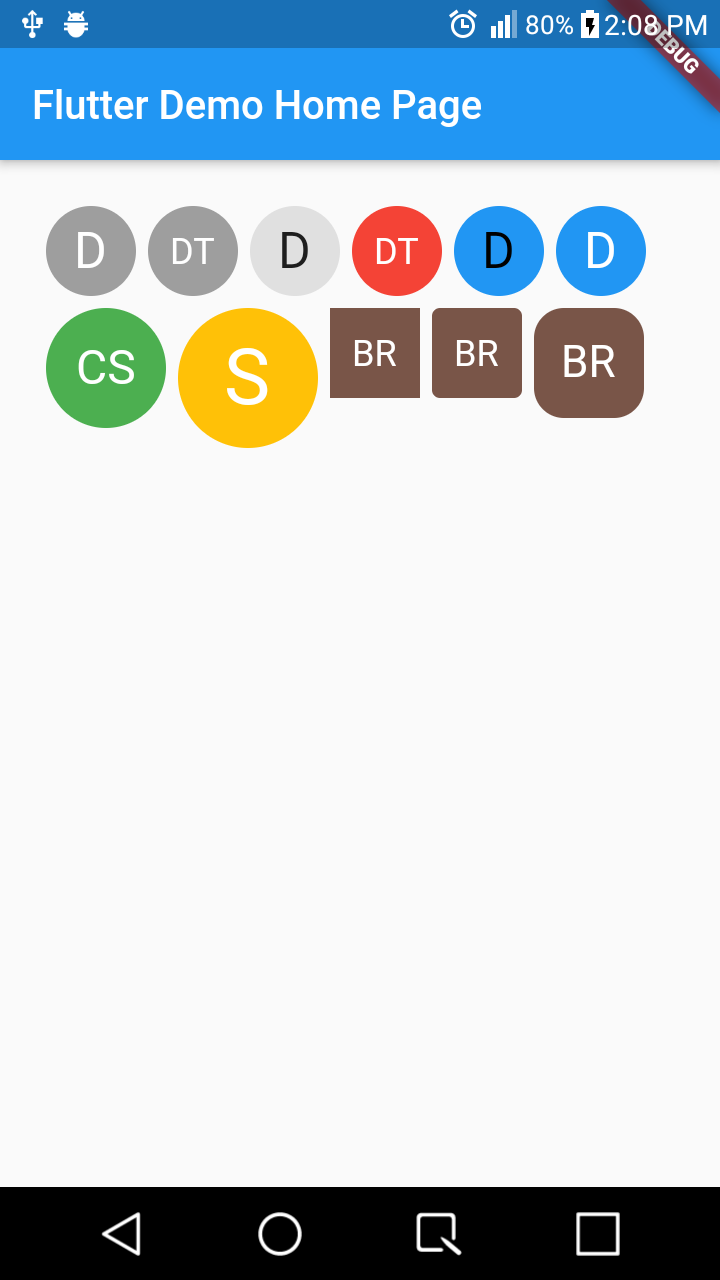
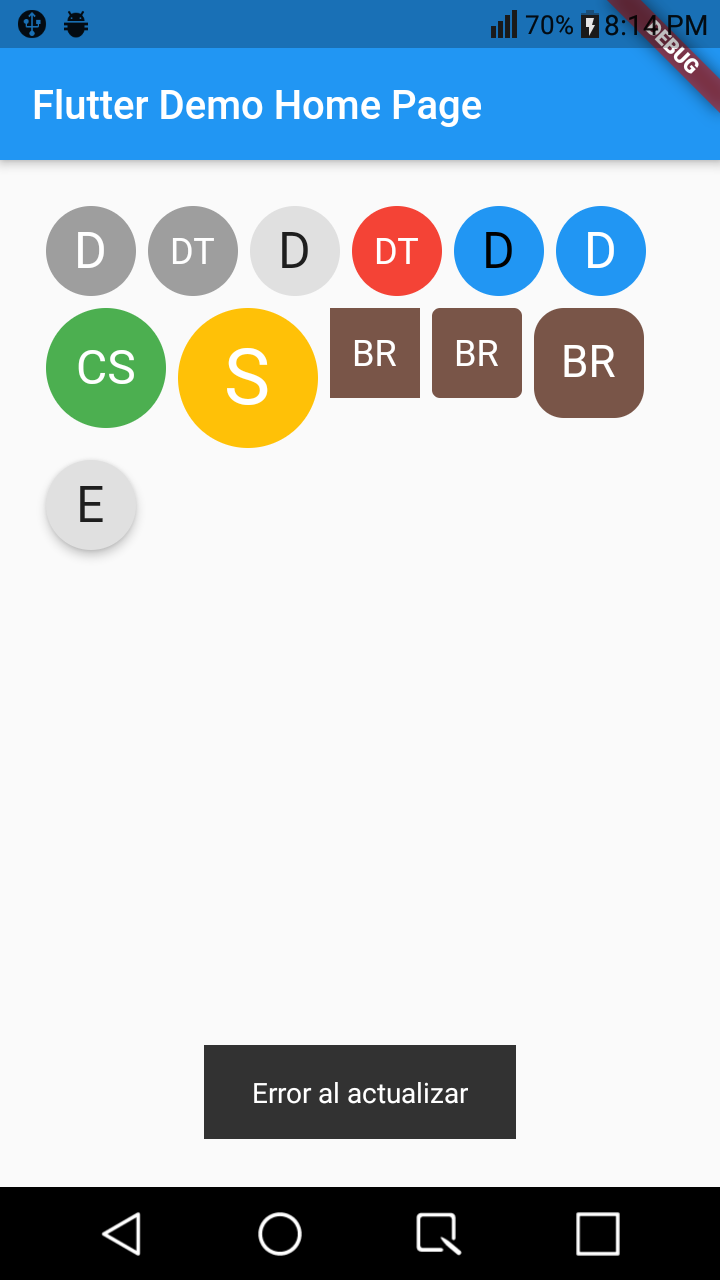
Updated

diff --git a/lib/src/initicon.dart b/lib/src/initicon.dart
@@ -6,7 +6,7 @@ extension on String {
     List<String> words = this.split(" ");
     words.forEach((element) {
       if (element.isNotEmpty && result.length < 2) {
-        result += element.characters.first;
+        result += element[0];
       }
     });
 
@@ -22,35 +22,38 @@ class Initicon extends StatelessWidget {
   final Color color;
   final double size;
   final BorderRadiusGeometry borderRadius;
+  final double elevation;
 
   const Initicon({
     Key key,
-    @required this.text,
+    this.text,
     this.backgroundColor = Colors.grey,
     this.color,
     this.size = 45,
     this.borderRadius,
+    this.elevation = 0,
   }) : super(key: key);
 
   @override
   Widget build(BuildContext context) {
-    return Container(
-      width: size,
-      height: size,
-      decoration: BoxDecoration(
-        color: backgroundColor,
-        borderRadius: borderRadius ?? BorderRadius.circular(150),
-      ),
+    return Material(
+      elevation: elevation,
+      color: backgroundColor,
+      borderRadius: borderRadius ?? BorderRadius.circular(150),
       clipBehavior: Clip.antiAlias,
-      child: Center(
-        child: Text(
-          text.initials(),
-          style: TextStyle(
-            color: color ??
-                (HSLColor.fromColor(backgroundColor).lightness < 0.8
-                    ? Colors.white
-                    : Colors.black87),
-            fontSize: size / (text.initials().length == 2 ? 2.5 : 1.8),
+      child: Container(
+        width: size,
+        height: size,
+        child: Center(
+          child: Text(
+            text.initials(),
+            style: TextStyle(
+              color: color ??
+                  (HSLColor.fromColor(backgroundColor).lightness < 0.8
+                      ? Colors.white
+                      : Colors.black87),
+              fontSize: size / (text.initials().length == 2 ? 2.5 : 1.8),
+            ),
           ),
         ),
       ),

diff --git a/example/lib/main.dart b/example/lib/main.dart
@@ -121,6 +121,14 @@ class _MyHomePageState extends State<MyHomePage> {
                 size: 55,
               ),
             ),
+            Padding(
+              padding: EdgeInsets.all(3),
+              child: Initicon(
+                text: "Elevation",
+                elevation: 4,
+                backgroundColor: Colors.grey.shade300,
+              ),
+            ),
           ],
         ),
       ),

diff --git a/README.md b/README.md
@@ -67,6 +67,7 @@ class _MyHomePageState extends State<MyHomePage> {
             body: Center(
                 child: Initicon(
                   text: "Full Name",
+                  elevation: 4
                 ),
             ),
         );

diff --git a/CHANGELOG.md b/CHANGELOG.md
@@ -1,3 +1,7 @@
+## [1.1.0]
+
+- Added elevation property
+
 ## [1.0.3] 
 
 - Fix bugs
